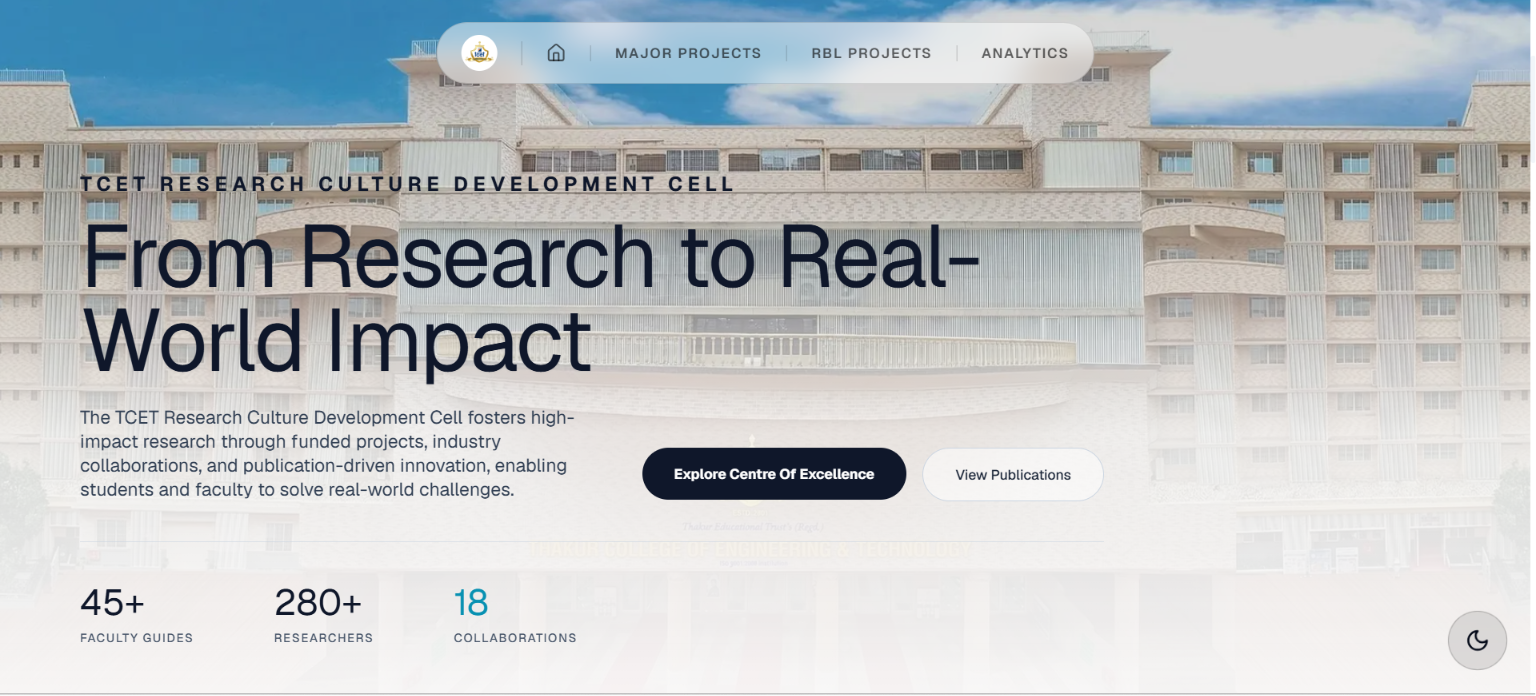
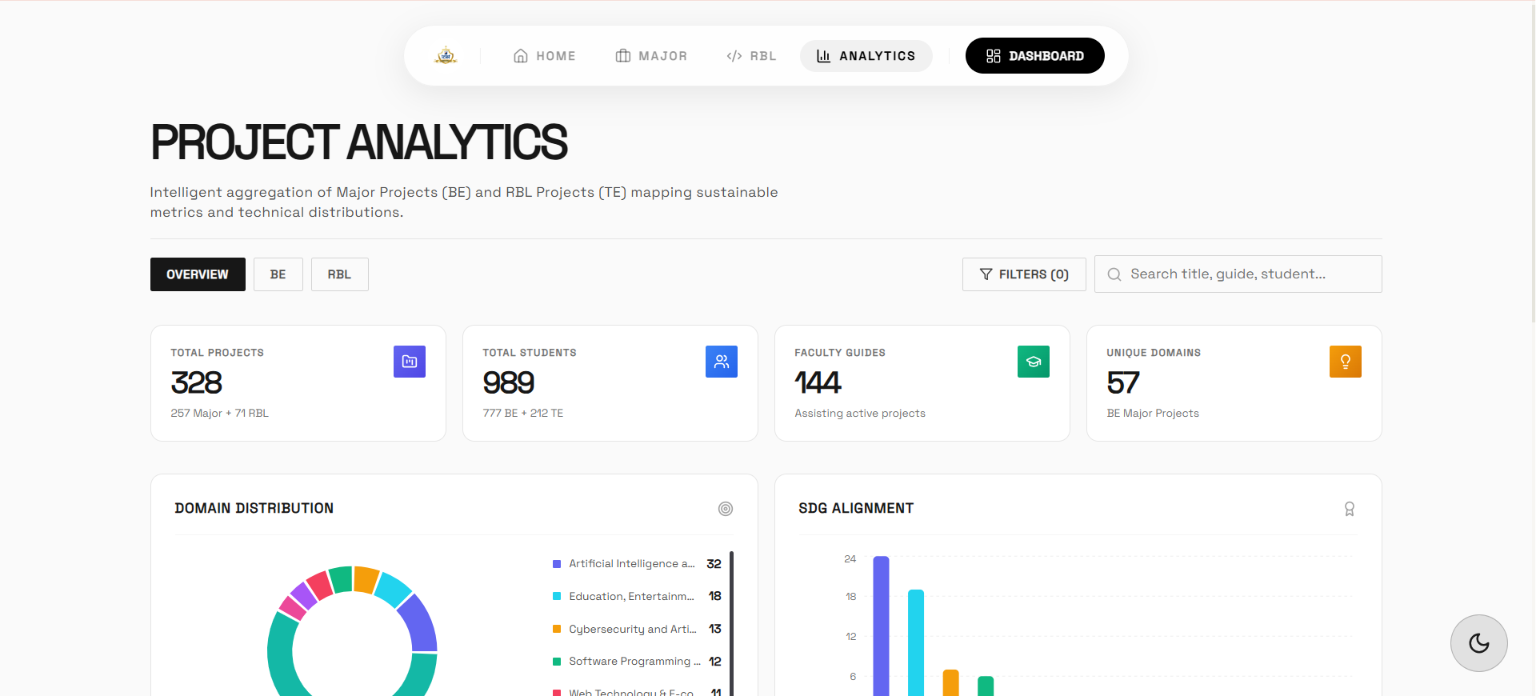
Crafts remaster

diff --git a/components/Crafts.tsx b/components/Crafts.tsx
@@ -13,7 +13,7 @@ const mainProjects = [
     title: "TCET's Research Culture Development Cell",
     description:
       "Managing 2,000+ student projects & publications annually, from assignment to public showcase - without the operational overhead. One platform that brings structure, visibility, and accountability to the entire academic project lifecycle.",
-    link: "https://showcase.tcetcercd.in/showcase",
+    link: "https://showcase.tcetcercd.in/analytics",
     image: "/tcetcoe.png",
   },
   {
@@ -24,7 +24,7 @@ const mainProjects = [
     image: "/jansamvaad.png",
   },
   {
-    title: "getSQL",
+    title: "getSQL- currently inactive due to expired keys (Hobby project)",
     description:
       "The schema-aware SQL agent. Generate queries, visualize relationships, and export production-ready ER diagrams instantly.",
     link: "https://getsql.vercel.app/",
@@ -119,6 +119,7 @@ const ProjectCard = ({ project, theme, index }: any) => {
           <Image
             src={project.image}
             fill
+            loading="eager"
             className="object-fill object-top transition-transform duration-500 ease-out group-hover:scale-105"
             alt={`Screenshot of ${project.title}`}
           />
